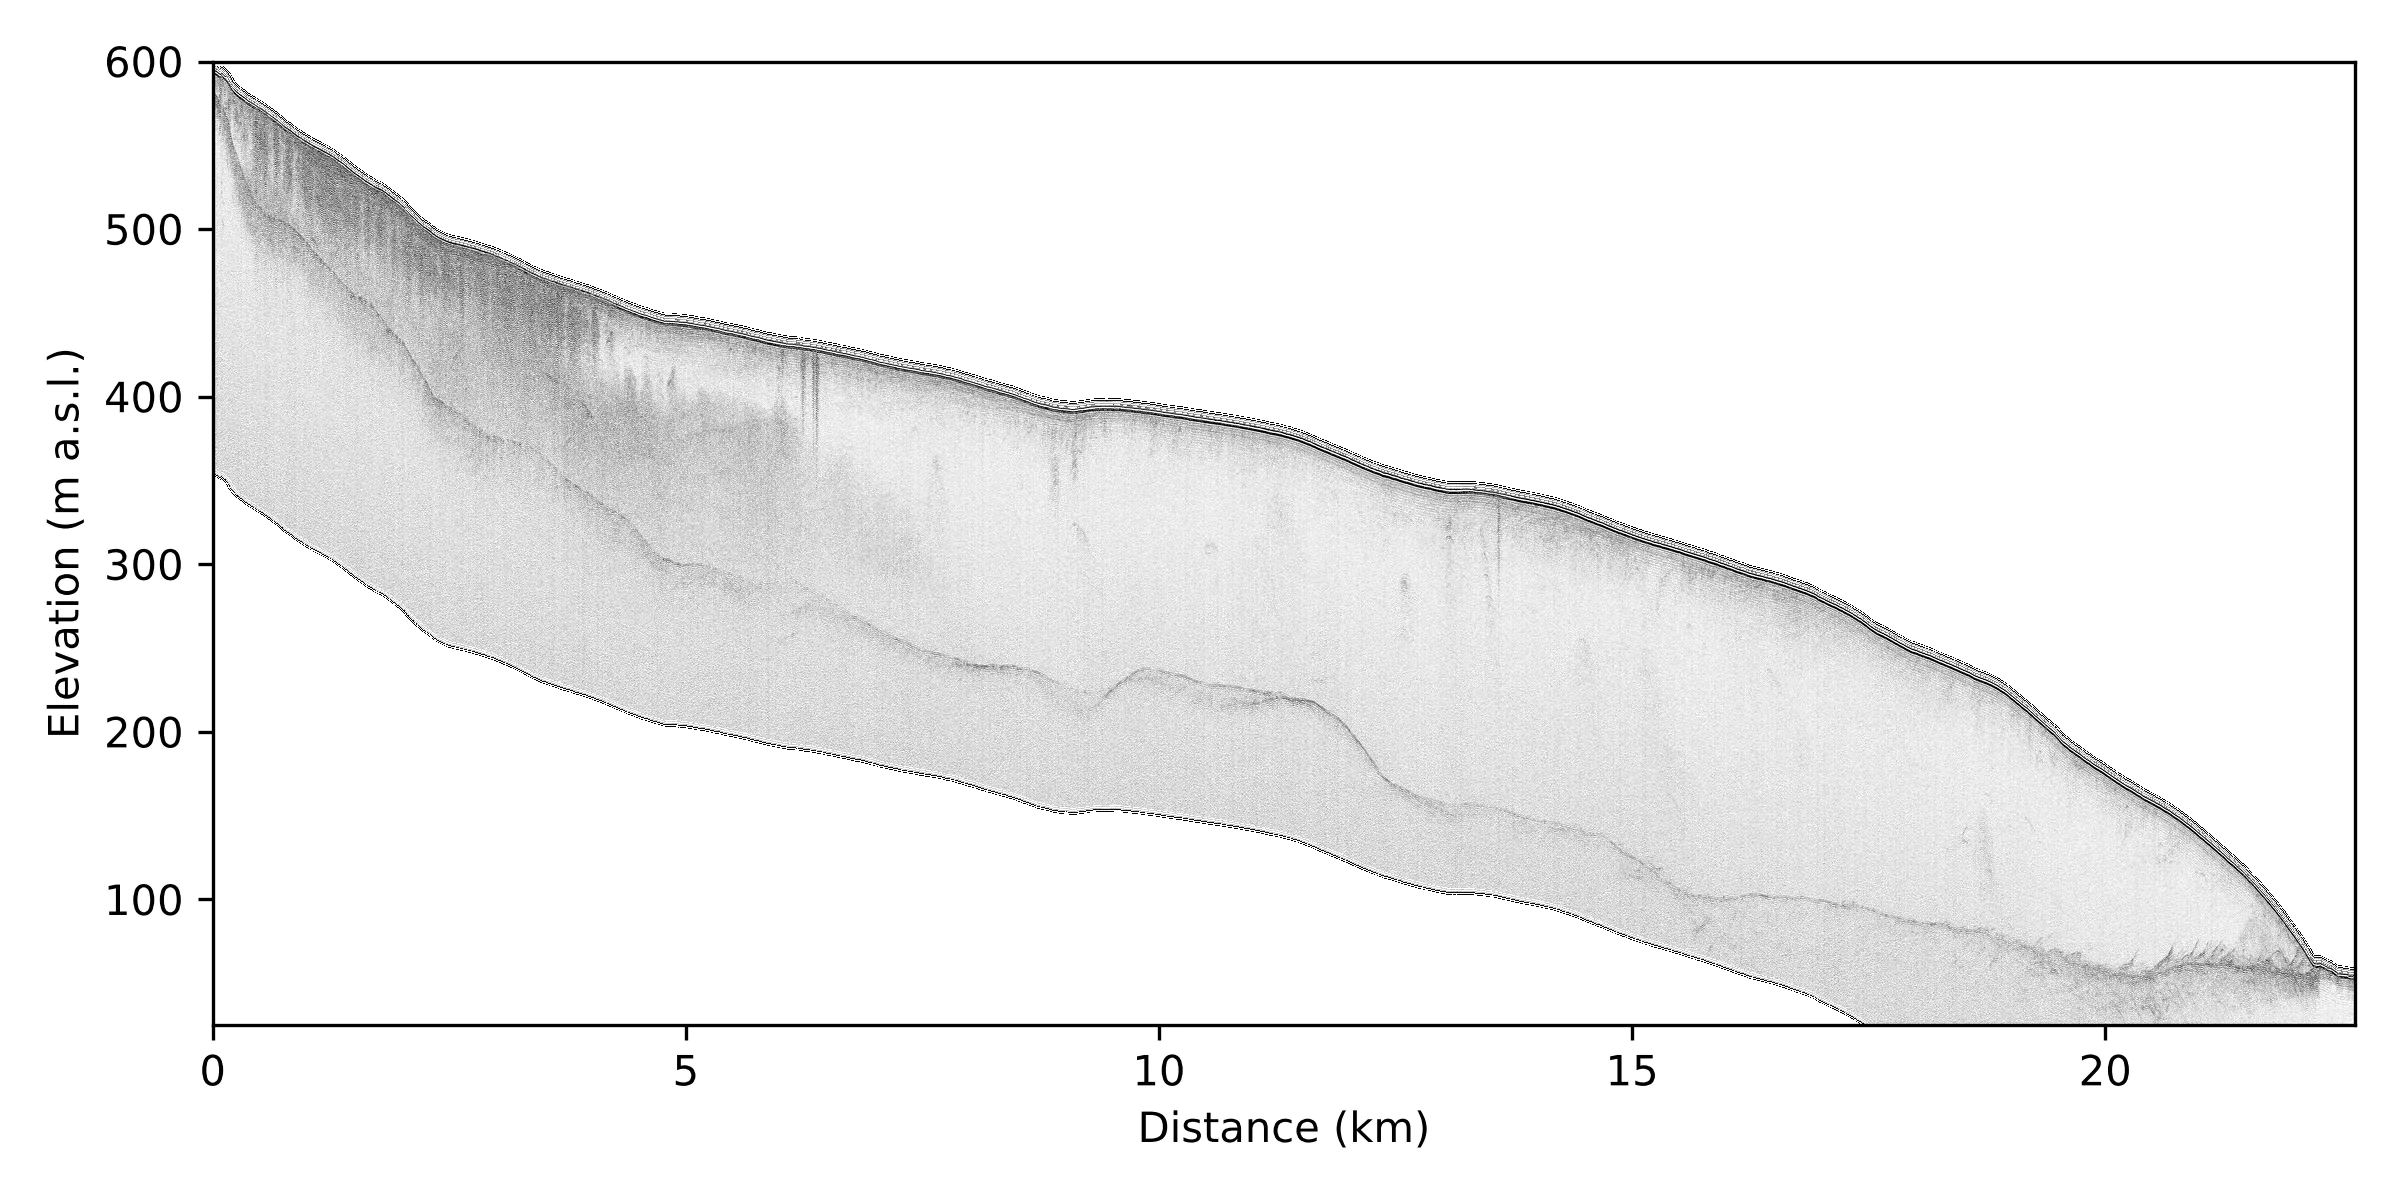
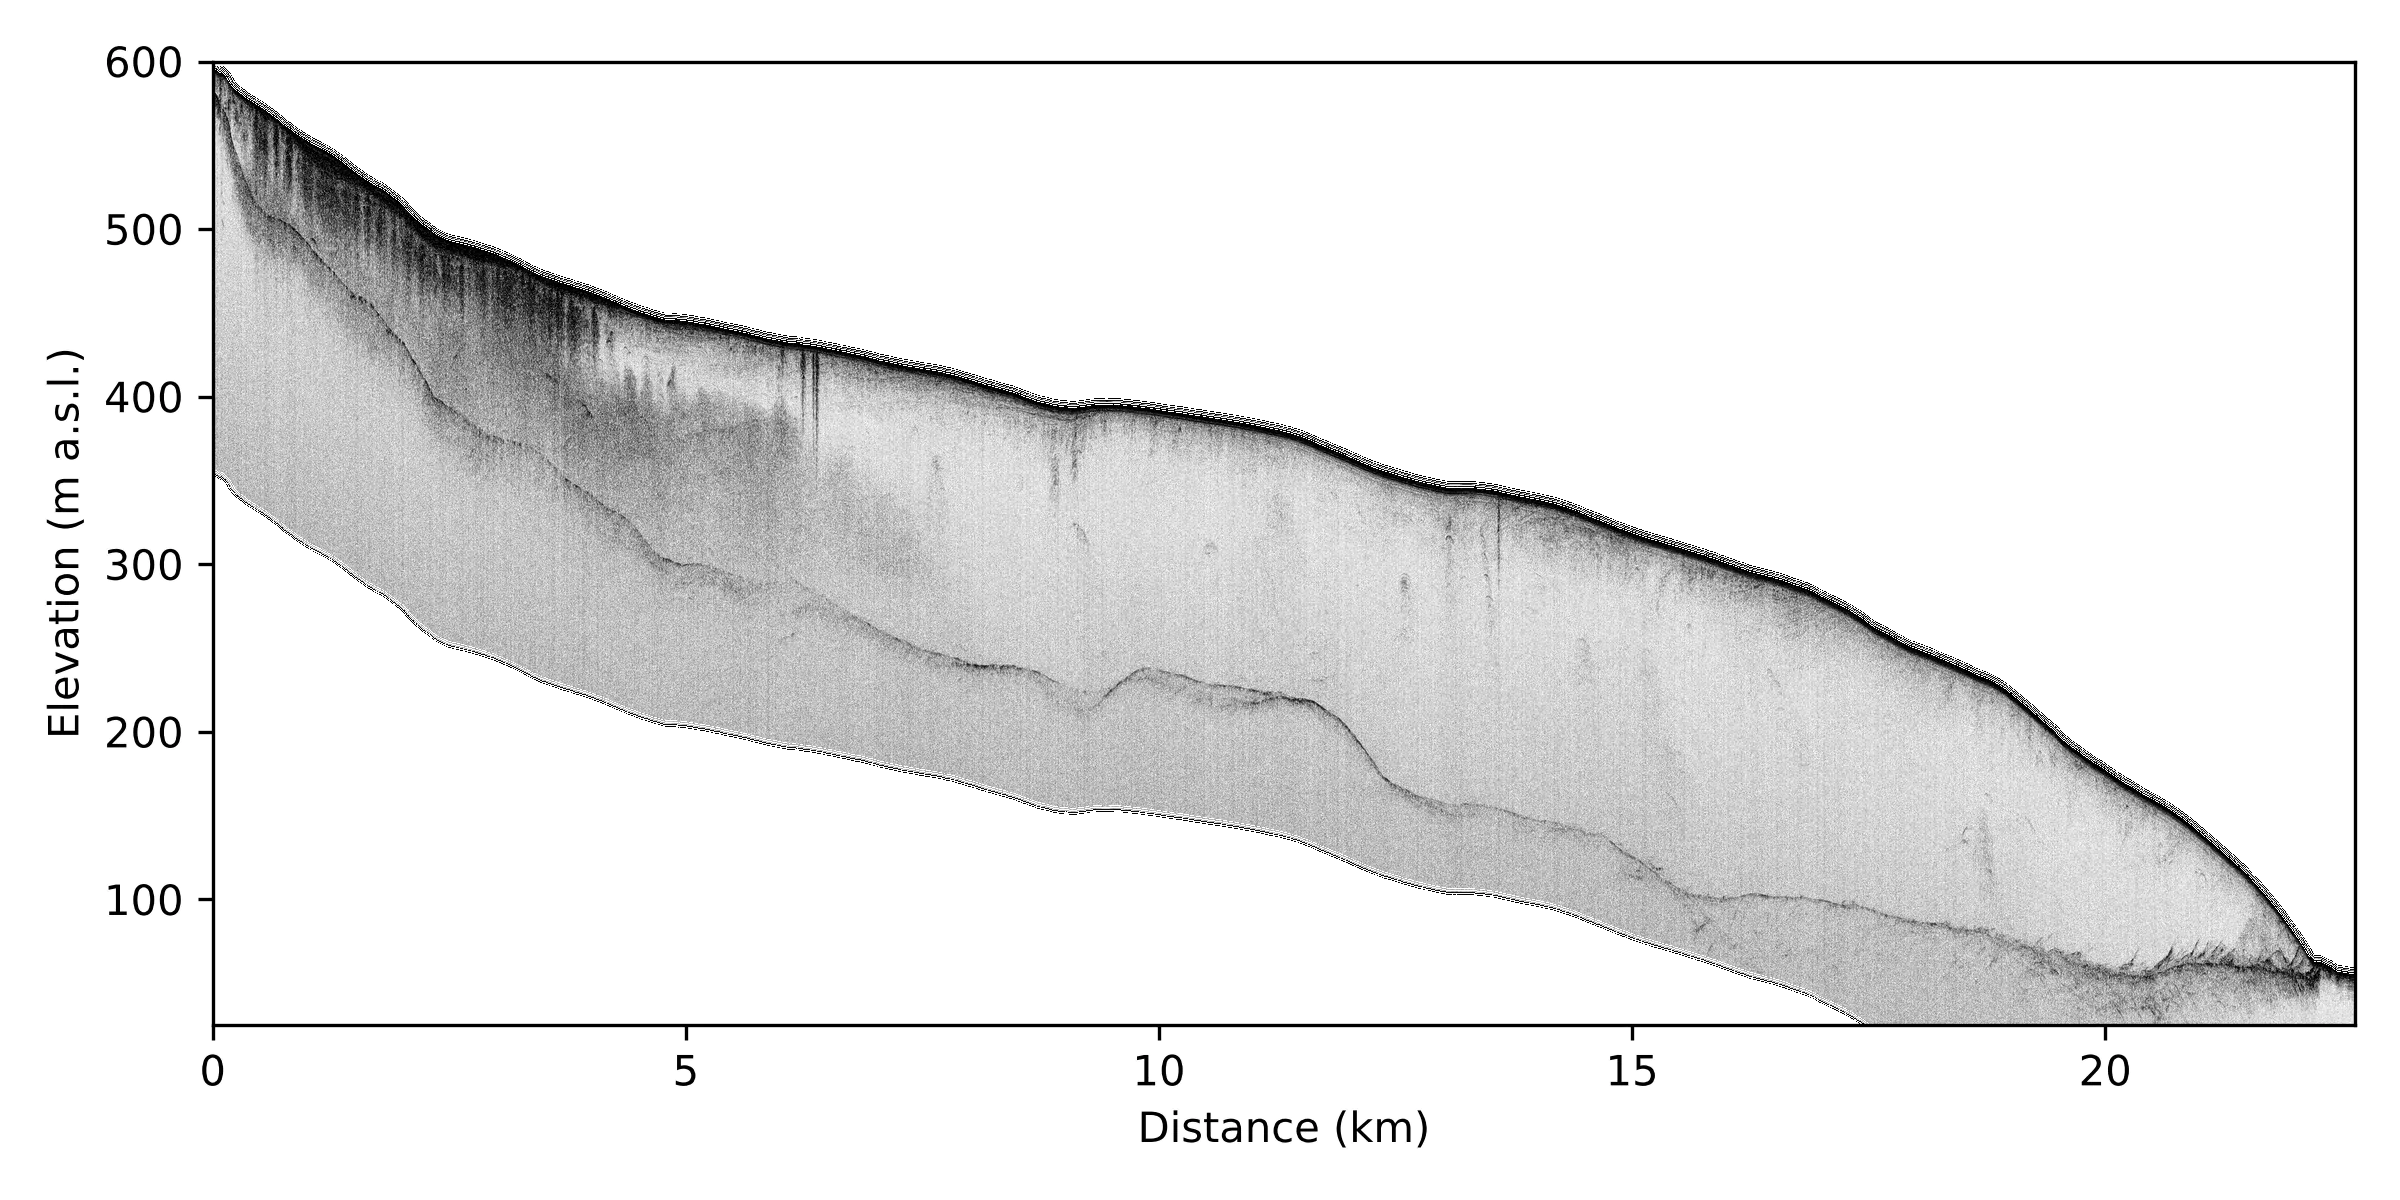
Updated radargram look

Changed region(s): [[0.0625, 0.0617, 1.0, 0.8633]]

diff --git a/scripts/render_kroppbreen.py b/scripts/render_kroppbreen.py
@@ -5,11 +5,11 @@ import matplotlib.patheffects
 import os
 from pathlib import Path
 
-def normalize(data: np.ndarray, contrast: float = 1.):
+def normalize(data: np.ndarray, mask, contrast: float = 1.):
     """Normalize the data and convert to an unsigned 8 bit integer array."""
     data_abs = np.abs(data)
-    minval_abs, maxval_abs = np.percentile(np.abs(data_abs[50:]), [0.01, 99])
-    data_abs = np.clip(contrast * (data - minval_abs) / (maxval_abs - minval_abs + 1e-12), 0, 1)
+    minval_abs, maxval_abs = np.percentile(data_abs[mask], [5, 97.5])
+    data_abs = np.clip(contrast * (data_abs - minval_abs) / (maxval_abs - minval_abs + 1e-12), 0, 1)
 
     return (data_abs * 255).astype("uint8")
 
@@ -67,7 +67,7 @@ def main():
         data["elev"] = data["elev"].broadcast_like(data["data_topographically_corrected"])
         mask = (data["elev"] >= data["elevation"]) | ((data["elev"] + data["depth"].max().item()) <= data["elevation"])
 
-        arr = normalize(data.data_topographically_corrected)
+        arr = normalize(data.data_topographically_corrected.values, ~mask)
 
         extent=(0, data["distance"].max().item() / 1e3, data["elevation"].min().item() - data["depth"].max().item(), data["elevation"].max().item())
 
